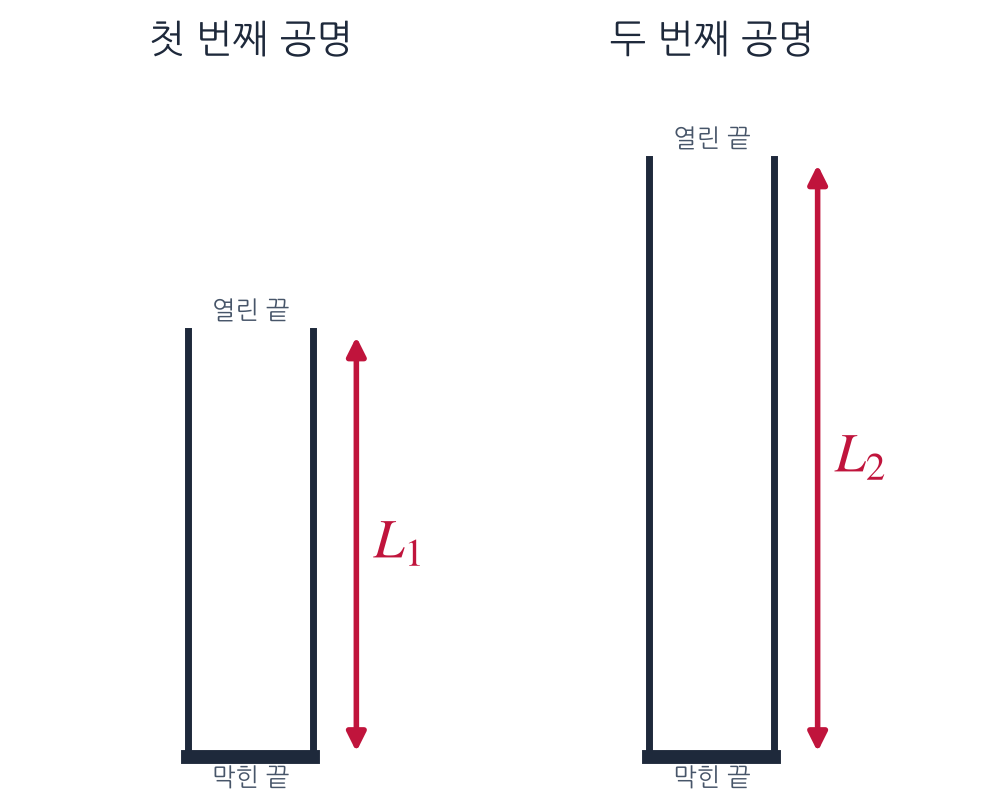
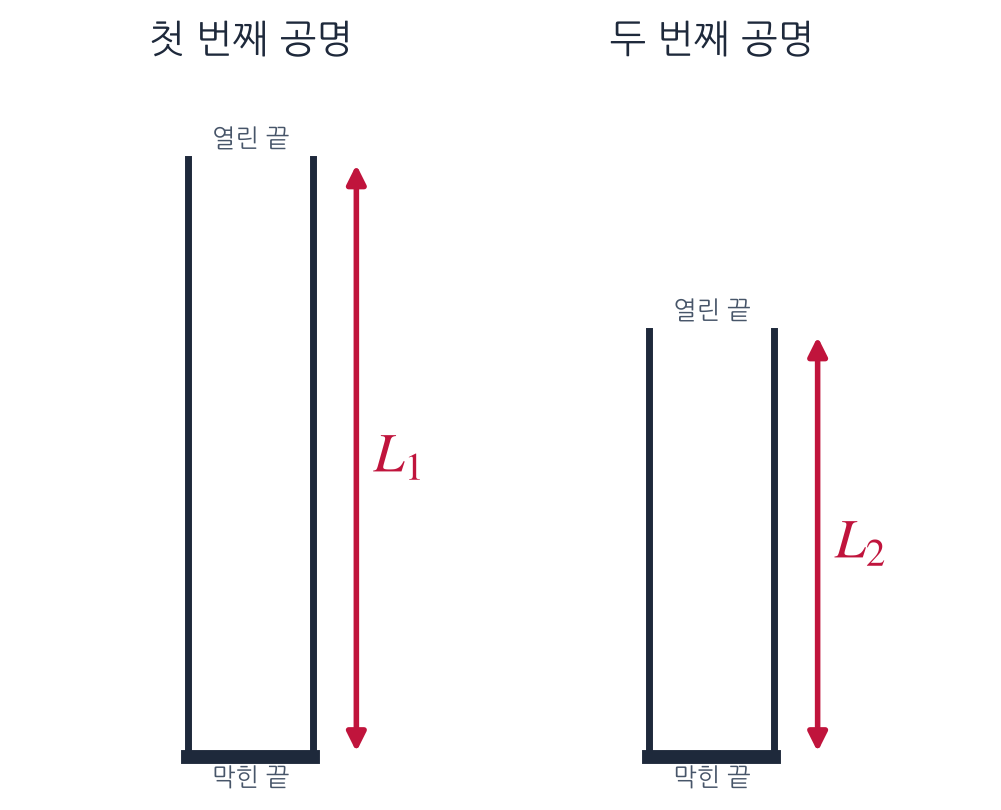
수행평가2: L1·L2 순서를 시뮬레이션(교과서)대로 맞춤 (#11)
* 3D 공명 실험실·보고서: 실험 과정 문구를 수정된 모둠 실험 보고서와 일치

- 과정 1~5를 보고서 ①~④와 같은 문장으로 (필름을 끝까지 밀어 넣은 뒤 조금씩 빼면서 L1, L2)
- 시작 높이 32.0 cm(필름을 끝까지 밀어 넣은 상태), 분석 모델 식 L₂ − L₁ = λ/2

Claude-Session: https://claude.ai/code/session_01Xnp5QAXjmhTFN6PsspmhWj

* 보고서 2-① 문구를 한글 양식과 일치 (두 공기 기둥)

Claude-Session: https://claude.ai/code/session_01Xnp5QAXjmhTFN6PsspmhWj

* 수행평가2: L1·L2 순서를 시뮬레이션(교과서)대로 — 필름을 밀어 넣으며 첫 번째 공명 L1(긴 쪽), λ = 2(L1 − L2)

Claude-Session: https://claude.ai/code/session_01Xnp5QAXjmhTFN6PsspmhWj

---------

diff --git a/physics_sim/standing_wave_3d_lab.html b/physics_sim/standing_wave_3d_lab.html
@@ -171,9 +171,9 @@
         <div>
           <div class="text-[10px] sm:text-[11px] text-slate-300 font-medium">바닥에서 필름 끝 높이 (<span class="italic font-serif">L</span>)</div>
           <div class="flex items-baseline gap-1 mt-0.5">
-            <span id="hud-height-cm" class="text-xl sm:text-2xl font-extrabold font-mono-num text-emerald-400">32.0</span>
+            <span id="hud-height-cm" class="text-xl sm:text-2xl font-extrabold font-mono-num text-emerald-400">55.0</span>
             <span class="text-xs font-semibold text-slate-300">cm</span>
-            <span id="hud-height-m" class="text-[11px] font-mono-num text-slate-400 ml-1">(0.320 m)</span>
+            <span id="hud-height-m" class="text-[11px] font-mono-num text-slate-400 ml-1">(0.550 m)</span>
           </div>
         </div>
 
@@ -303,9 +303,9 @@
           <div>
             <div class="flex items-center justify-between mb-1">
               <label for="slider-height" class="text-xs font-bold text-slate-700">바닥에서 투명 필름 끝 높이 (<span class="italic font-serif">L</span>)</label>
-              <span id="label-height" class="text-xs font-extrabold font-mono-num text-emerald-700 bg-emerald-50 px-2 py-0.5 rounded border border-emerald-200">32.0 cm (0.320 m)</span>
+              <span id="label-height" class="text-xs font-extrabold font-mono-num text-emerald-700 bg-emerald-50 px-2 py-0.5 rounded border border-emerald-200">55.0 cm (0.550 m)</span>
             </div>
-            <input id="slider-height" type="range" min="32.0" max="55.0" step="0.1" value="32.0" class="w-full slider-emerald" />
+            <input id="slider-height" type="range" min="32.0" max="55.0" step="0.1" value="55.0" class="w-full slider-emerald" />
             <div class="flex items-center justify-between gap-1 mt-2">
               <div class="flex items-center gap-1">
                 <button data-delta="-0.5" class="nudge-btn px-2 py-0.5 rounded bg-slate-100 hover:bg-slate-200 text-slate-700 text-[11px] font-mono-num font-semibold border border-slate-200">-5mm</button>
@@ -359,7 +359,7 @@
                 <tr class="bg-amber-50/50 text-slate-700 border-b border-slate-300">
                   <th class="py-1 px-1 border-r border-slate-300 font-semibold">첫 번째(<span class="italic font-serif">L</span>₁)</th>
                   <th class="py-1 px-1 border-r border-slate-300 font-semibold">두 번째(<span class="italic font-serif">L</span>₂)</th>
-                  <th class="py-1 px-1 border-r border-slate-300 font-semibold">|<span class="italic font-serif">L</span>₂ − <span class="italic font-serif">L</span>₁|</th>
+                  <th class="py-1 px-1 border-r border-slate-300 font-semibold"><span class="italic font-serif">L</span>₁ − <span class="italic font-serif">L</span>₂</th>
                 </tr>
               </thead>
               <tbody id="table-body" class="divide-y divide-slate-200 font-mono-num">
@@ -369,7 +369,7 @@
           </div>
 
           <div class="mt-2 flex items-center justify-between text-[11px] text-slate-600">
-            <span>식: <span class="font-mono-num">λ = 2|L₂ − L₁|, v = fλ</span> · 진동수 1개로 모든 회차 측정</span>
+            <span>식: <span class="font-mono-num">λ = 2(L₁ − L₂), v = fλ</span> · 진동수 1개로 모든 회차 측정</span>
             <span>평균 측정 속력: <strong id="avg-speed-text" class="font-mono-num text-emerald-700 text-xs">- m/s</strong></span>
           </div>
         </div>
@@ -448,15 +448,15 @@
     const PROCEDURE_TEXTS = {
       1: '<strong>1.</strong> 투명 필름을 둥글게 말아 원통을 만들어 눈금실린더 안쪽에 끼운다. 실린더 바닥이 막힌 끝, 필름 위 끝이 열린 끝이다.',
       2: '<strong>2.</strong> 스마트폰으로 일정한 진동수 <span class="italic font-serif">f</span>의 소리를 내어 필름 끝에 가까이 둔다. <strong>진동수는 1개로 정해</strong> 모든 회차에 같은 값을 쓴다.',
-      3: '<strong>3.</strong> 필름을 끝까지 밀어 넣은 뒤 조금씩 빼면서 소리가 가장 크게 들리는 곳(공명)을 찾고, 바닥에서 필름 끝까지의 높이를 첫 번째 공명 <span class="italic font-serif">L</span>₁로 기록한다.',
-      4: '<strong>4.</strong> 필름을 계속 빼면서 소리가 다시 가장 크게 들리는 곳의 높이를 두 번째 공명 <span class="italic font-serif">L</span>₂로 기록한다.',
-      5: '<strong>5.</strong> 3회 이상 반복하고(더 측정하면 <strong>＋ 회차 추가</strong>), <span class="italic font-serif">L</span>₂ − <span class="italic font-serif">L</span>₁으로 음파의 파장(λ)과 진행 속력(<span class="italic font-serif">v</span>)을 구한다.'
+      3: '<strong>3.</strong> 필름을 최대로 빼 놓은 뒤 조금씩 밀어 넣으면서 소리가 가장 크게 들리는 곳(공명)을 찾고, 바닥에서 필름 끝까지의 높이를 첫 번째 공명 <span class="italic font-serif">L</span>₁로 기록한다.',
+      4: '<strong>4.</strong> 필름을 계속 밀어 넣으면서 소리가 다시 가장 크게 들리는 곳의 높이를 두 번째 공명 <span class="italic font-serif">L</span>₂로 기록한다.',
+      5: '<strong>5.</strong> 3회 이상 반복하고(더 측정하면 <strong>＋ 회차 추가</strong>), <span class="italic font-serif">L</span>₁ − <span class="italic font-serif">L</span>₂로 음파의 파장(λ)과 진행 속력(<span class="italic font-serif">v</span>)을 구한다.'
     };
 
     const state = {
       sceneMode: 'realistic', // 'realistic' (3D 실사화) | 'analytical' (3D 분석 모델)
       frequency: 1150,        // Hz
-      heightCm: 32.0,         // cm (32.0 ~ 55.0 cm)
+      heightCm: 55.0,         // cm (32.0 ~ 55.0 cm)
       audioOn: false,
       showWave: true,
       autoTrack: true,
@@ -628,7 +628,7 @@
 
       ctx.font = 'italic 44px "Times New Roman", serif';
       ctx.fillStyle = 'rgba(248, 250, 252, 0.72)';
-      ctx.fillText('v = f · λ          L₂ − L₁ = λ / 2          Lₙ = (2n - 1) · λ / 4', 130, 285);
+      ctx.fillText('v = f · λ          L₁ − L₂ = λ / 2          Lₙ = (2n - 1) · λ / 4', 130, 285);
 
       // Chalk Wave Sketch
       ctx.strokeStyle = 'rgba(125, 211, 252, 0.6)';
@@ -1455,7 +1455,7 @@
         tbody.appendChild(tr);
       });
 
-      // 평균 행 (L1, L2, |L2 − L1| 가 모두 기록된 회차 기준)
+      // 평균 행 (L1, L2, L1 − L2 가 모두 기록된 회차 기준)
       const done = state.trials.filter(t => t.l1 !== null && t.l2 !== null);
       if (done.length > 0) {
         const m = (a) => a.reduce((x, y) => x + y, 0) / a.length;

diff --git a/physics_sim/assessment2_report.py b/physics_sim/assessment2_report.py
@@ -60,14 +60,14 @@ STEPS = [
     "준비물: 눈금실린더(메스실린더), OHP 투명 필름, 접착테이프, 자, 온도계, 스마트폰(소리 발생 앱)",
     "투명 필름을 둥글게 말아 원통을 만들어 눈금실린더 안쪽에 끼운다. 실린더 바닥이 막힌 끝, 필름 위 끝이 열린 끝이다.",
     "스마트폰으로 일정한 진동수 f의 소리를 내어 필름 끝에 가까이 둔다. <b>진동수는 1개로 정해</b> 모든 회차에 같은 값을 쓴다.",
-    "필름을 끝까지 밀어 넣은 뒤 조금씩 빼면서 소리가 가장 크게 들리는 곳(공명)을 찾고, "
-    "바닥에서 필름 끝까지의 높이를 첫 번째 공명 L1, 두 번째 공명 L2로 기록한다. "
+    "필름을 최대로 빼 놓은 뒤 조금씩 밀어 넣으면서 소리가 가장 크게 들리는 곳(공명)을 찾아 "
+    "바닥에서 필름 끝까지의 높이를 첫 번째 공명 L1로 기록하고, 계속 밀어 넣으면서 두 번째 공명 L2를 기록한다. "
     "3회 이상 반복한다(추가 측정은 표의 <b>➕ 회차 추가</b>).",
 ]
 Q = {
     "q2a": "① 두 공기 기둥에 공명할 때 관 속 공기의 정상파(진동 범위)를 그리고, 배와 마디를 표시하시오.",
     "q2b": "② 막힌 끝(눈금실린더 바닥)과 열린 끝(필름 끝)이 각각 배인지 마디인지 쓰고, 그 까닭을 매질(공기) 입자가 진동할 수 있는지로 설명하시오.",
-    "q2c": "③ L1, L2를 파장 λ으로 나타내고, λ = 2(L2 − L1)임을 보이시오.",
+    "q2c": "③ L1, L2를 파장 λ으로 나타내고, λ = 2(L1 − L2)임을 보이시오.",
     "q3a": "① 측정한 평균값으로 소리의 파장과 속력을 구하시오. (식 → 대입 → 결과·단위)",
     "q3b": "② 이론값 v = 331 + 0.6t (m/s, t는 °C)로 실내 온도에서의 음속을 구하고, 측정값과의 오차율(%)을 구하시오.",
     "q4a": "① 측정한 L1을 λ/4의 홀수 배 중 가장 가까운 값 (2n − 1)λ/4와 비교하여 차이(Δ = (2n − 1)λ/4 − L1)를 구하시오. "
@@ -76,7 +76,7 @@ Q = {
     "q4b": "② 개구단 보정 외에 측정값에 영향을 준 요인을 한 가지 들고, 그 요인이 측정한 음속을 크게 하는지 "
            "작게 하는지 근거와 함께 쓰시오.",
     "q5": "여름철 햇빛을 받은 차량 실내 온도가 35 °C라면 차내 음속은 얼마인가? 같은 관과 같은 진동수로 실험하면 "
-          "두 공명 위치 사이의 거리(L2 − L1)는 어떻게 달라지는지 까닭과 함께 쓰시오.",
+          "두 공명 위치 사이의 거리(L1 − L2)는 어떻게 달라지는지 까닭과 함께 쓰시오.",
 }
 # 식 → 대입 → 결과 칸 (key 접두어, 구할 양)
 CALC_ROWS = {
@@ -200,11 +200,11 @@ def file_stem():
 
 
 def measurements():
-    """회차별 L1, L2, L2−L1 과 평균 (앱 자동 계산: 단순 산술만)."""
+    """회차별 L1, L2, L1−L2 과 평균 (앱 자동 계산: 단순 산술만)."""
     rows, s1, s2, sd = [], [], [], []
     for i in range(n_trials()):
         a, b = num(f"L1_{i}"), num(f"L2_{i}")
-        dd = (b - a) if a is not None and b is not None else None
+        dd = (a - b) if a is not None and b is not None else None
         rows.append((a, b, dd))
         if a is not None: s1.append(a)
         if b is not None: s2.append(b)
@@ -340,7 +340,7 @@ with m1:
     e1.text_input("진동수 f (Hz)", key="freq", placeholder="예: 1150")
     e2.text_input("실내 온도 (°C)", key="temp")
     tip("모둠이 정한 <b>진동수 1개</b>를 모든 회차에 사용합니다. L은 <b>눈금실린더 바닥에서 필름 끝까지의 높이</b>"
-        "(공기 기둥 길이)입니다. 짧은 쪽부터 첫 번째 공명 L1, 두 번째 공명 L2입니다. "
+        "(공기 기둥 길이)입니다. 필름을 밀어 넣으며 먼저 만나는 긴 쪽이 첫 번째 공명 L1, 다음이 두 번째 공명 L2입니다. "
         "참고 페이지의 <b>3D 공명 실험실</b>로 측정할 때도 진동수 1개만 정해 사용합니다.")
 with m2:
     _res_img = os.path.join(IMG_DIR, "resonance_L1_L2.png")
@@ -348,7 +348,7 @@ with m2:
         st.image(_res_img, caption="공기 기둥 길이 L1, L2 (바닥 → 필름 끝)", **FULL)
 
 hdr = st.columns([0.8, 1, 1, 1])
-for c, t in zip(hdr, ["회차", "L1 (m)", "L2 (m)", "L2 − L1 (m)"]):
+for c, t in zip(hdr, ["회차", "L1 (m)", "L2 (m)", "L1 − L2 (m)"]):
     c.markdown(f"<div class='cellh'>{t}</div>", unsafe_allow_html=True)
 rows, avgs = measurements()
 for i in range(n_trials()):
@@ -361,7 +361,7 @@ rc = st.columns([0.8, 1, 1, 1])
 rc[0].markdown("<div style='padding-top:6px'><b>평균</b></div>", unsafe_allow_html=True)
 for j in range(3):
     rc[j + 1].markdown(f"<div class='auto'>{fmt(avgs[j]) or '&nbsp;'}</div>", unsafe_allow_html=True)
-st.markdown("<div class='auto-label'>▣ L2 − L1 과 평균은 입력한 값으로 자동 계산됩니다. "
+st.markdown("<div class='auto-label'>▣ L1 − L2 와 평균은 입력한 값으로 자동 계산됩니다. "
             "파장·속력 계산은 3번에 모둠이 직접 씁니다.</div>", unsafe_allow_html=True)
 tb1, tb2, _ = st.columns([1, 1, 2.5])
 tb1.button("➕ 회차 추가", on_click=cb_add_trial, disabled=n_trials() >= MAX_TRIALS, **FULL)
@@ -426,7 +426,7 @@ tip("요인만 쓰지 말고 <b>요인 → 측정값(L, λ, v)에 미친 영향 
 sec(5, "차내 환경에 적용하기")
 qtext(Q["q5"])
 calc_block("c_v35")
-st.text_area("L2 − L1 의 변화와 까닭", key="q5", height=130)
+st.text_area("L1 − L2 의 변화와 까닭", key="q5", height=130)
 
 # ════════════════════════════════════════════════════════════════════
 # 9. 제출 전 점검
@@ -475,7 +475,7 @@ def report_blocks():
               [[ss("freq"), ss("temp"), "눈금실린더 바닥 → 필름 끝"]], (0, 1), [50, 50, 78]))
     trow = [[str(i + 1), ss(f"L1_{i}"), ss(f"L2_{i}"), fmt(rows[i][2])] for i in range(n_trials())]
     trow.append(["평균", fmt(avgs[0]), fmt(avgs[1]), fmt(avgs[2])])
-    B.append(("grid", ["회차", "L1 (m)", "L2 (m)", "L2 − L1 (m)  ▣자동"], trow, (1, 2), [28, 50, 50, 50]))
+    B.append(("grid", ["회차", "L1 (m)", "L2 (m)", "L1 − L2 (m)  ▣자동"], trow, (1, 2), [28, 50, 50, 50]))
     B.append(("h", 2, "관의 경계 조건과 파장"))
     B.append(("q", Q["q2a"]))
     if ss("draw_img_b64"):
@@ -763,8 +763,8 @@ with st.expander("🔒 교사용 확인"):
         if f and dLa:
             lam = 2 * dLa
             v = f * lam
-            lines = [f"- 사용 진동수 f = **{f:g} Hz** · 평균 L2 − L1 = **{dLa:.4f} m**",
-                     f"- λ = 2(L2 − L1) ≈ **{lam:.4f} m** → v = fλ ≈ **{v:.1f} m/s**"]
+            lines = [f"- 사용 진동수 f = **{f:g} Hz** · 평균 L1 − L2 = **{dLa:.4f} m**",
+                     f"- λ = 2(L1 − L2) ≈ **{lam:.4f} m** → v = fλ ≈ **{v:.1f} m/s**"]
             if t is not None:
                 vth = 331 + 0.6 * t
                 lines.append(f"- 이론값 v = 331 + 0.6×{t:g} ≈ **{vth:.1f} m/s** → 오차율 ≈ **{abs(v - vth) / vth * 100:.2f} %**")
@@ -774,11 +774,11 @@ with st.expander("🔒 교사용 확인"):
                 lines.append(f"- L1에 가장 가까운 (2n − 1)λ/4: n = {k} → {q:.4f} m, 평균 L1 = {L1a:.4f} m "
                              f"→ Δ ≈ **{q - L1a:.4f} m**")
             v35 = 331 + 0.6 * 35
-            lines.append(f"- 35 °C: v = {v35:.1f} m/s → 같은 f에서 L2 − L1 = v/(2f) ≈ **{v35 / (2 * f):.4f} m**")
+            lines.append(f"- 35 °C: v = {v35:.1f} m/s → 같은 f에서 L1 − L2 = v/(2f) ≈ **{v35 / (2 * f):.4f} m**")
             st.markdown("\n".join(lines))
         else:
             st.caption("측정 진동수와 L1·L2가 입력되면 기준 계산값이 표시됩니다.")
-        st.caption("예시(3D 공명 실험실, 1150 Hz, 20 °C): L1 ≈ 0.367 m, L2 ≈ 0.516 m → λ ≈ 0.299 m, "
-                   "v ≈ 343 m/s, Δ = 5λ/4 − L1 ≈ 0.006 m (개구단 보정)")
+        st.caption("예시(3D 공명 실험실, 1150 Hz, 20 °C): L1 ≈ 0.516 m, L2 ≈ 0.367 m → λ ≈ 0.298 m, "
+                   "v ≈ 343 m/s, Δ = 7λ/4 − L1 ≈ 0.006 m (개구단 보정)")
 
 st.caption("사곡고등학교 역학과 에너지 · 시뮬레이션 및 실습 지원 포털")
